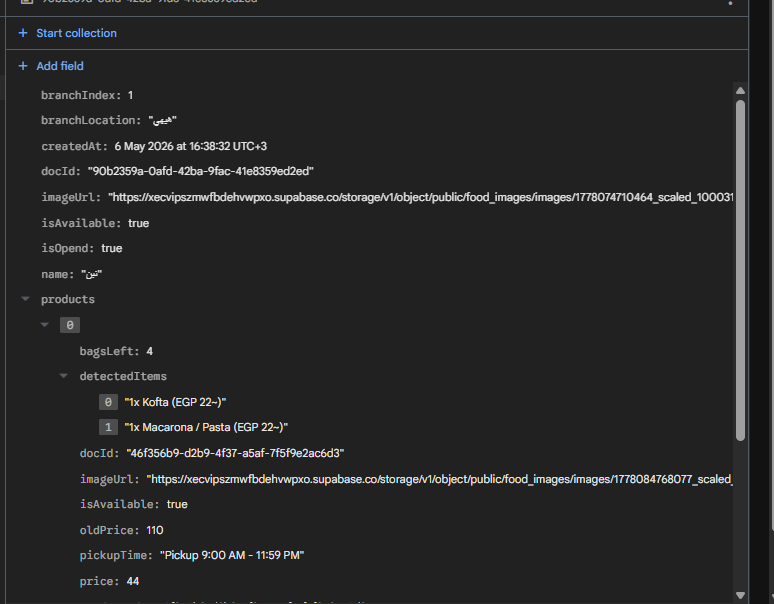
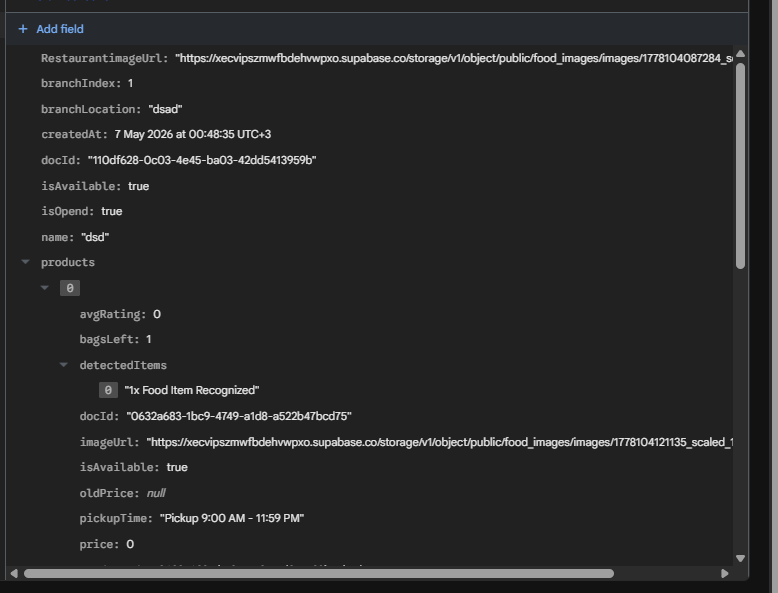
feat: Add restaurantImageUrl to restaurant and product entities, and update related components

Changed region(s): [[0.0, 0.0, 1.0, 1.0]]

diff --git a/lib/core/services/firestore_services.dart b/lib/core/services/firestore_services.dart
@@ -158,9 +158,14 @@ class FirestoreServices implements DatabaseServies {
     Map<String, dynamic>? query,
   }) async {
     String? filterRestaurantId;
+    int? restaurantLimit;
     if (query != null && query['restaurantId'] != null) {
       filterRestaurantId = query['restaurantId'] as String;
       print('🔥 Filtering by restaurantId: $filterRestaurantId');
+    }
+    if (query != null && query['restaurantLimit'] != null) {
+      restaurantLimit = query['restaurantLimit'] as int;
+      print('🔥 Limiting to $restaurantLimit restaurants');
     }
 
     late final QuerySnapshot<Map<String, dynamic>> restaurantsSnapshot;
@@ -170,7 +175,12 @@ class FirestoreServices implements DatabaseServies {
           .where(FieldPath.documentId, isEqualTo: filterRestaurantId)
           .get();
     } else {
-      restaurantsSnapshot = await firestore.collection('resturants').get();
+      var restaurantQuery =
+          firestore.collection('resturants') as Query<Map<String, dynamic>>;
+      if (restaurantLimit != null) {
+        restaurantQuery = restaurantQuery.limit(restaurantLimit);
+      }
+      restaurantsSnapshot = await restaurantQuery.get();
     }
 
     print('🔥 Found ${restaurantsSnapshot.docs.length} restaurants');
@@ -245,8 +255,12 @@ class FirestoreServices implements DatabaseServies {
     Map<String, dynamic>? query,
   }) {
     String? filterRestaurantId;
+    int? restaurantLimit;
     if (query != null && query['restaurantId'] != null) {
       filterRestaurantId = query['restaurantId'] as String;
+    }
+    if (query != null && query['restaurantLimit'] != null) {
+      restaurantLimit = query['restaurantLimit'] as int;
     }
 
     Query<Map<String, dynamic>> restaurantsQuery = firestore.collection(
@@ -257,6 +271,8 @@ class FirestoreServices implements DatabaseServies {
         FieldPath.documentId,
         isEqualTo: filterRestaurantId,
       );
+    } else if (restaurantLimit != null) {
+      restaurantsQuery = restaurantsQuery.limit(restaurantLimit);
     }
 
     return restaurantsQuery.snapshots().map((restaurantsSnapshot) {

diff --git a/lib/core/models/product_model.dart b/lib/core/models/product_model.dart
@@ -18,6 +18,7 @@ class ProductModel {
   final List<String> detectedItems;
   final String? userEmail;
   final String? restaurantId;
+  final String? restaurantImageUrl;
 
   final bool isfeatured;
   final num sellingCount;
@@ -54,6 +55,7 @@ class ProductModel {
     this.pickupTime,
     this.userEmail,
     this.restaurantId,
+    this.restaurantImageUrl,
     this.imageurl,
   });
 
@@ -131,6 +133,9 @@ class ProductModel {
       restaurantId: safeString(json['restaurantId']).isNotEmpty
           ? safeString(json['restaurantId'])
           : null,
+      restaurantImageUrl: safeString(json['restaurantImageUrl']).isNotEmpty
+          ? safeString(json['restaurantImageUrl'])
+          : null,
       isOrganic: safeBool(json['isOrganic']),
       isfeatured: safeBool(json['isfeatured']) || safeBool(json['isFeatured']),
       imageurl: safeString(json['imageurl']).isNotEmpty
@@ -166,6 +171,7 @@ class ProductModel {
       detectedItems: detectedItems,
       userEmail: userEmail,
       restaurantId: restaurantId,
+      restaurantImageUrl: restaurantImageUrl,
       avgRating: avgRating,
       imageUrl: imageurl,
     );

diff --git a/lib/core/widgets/resturant_card.dart b/lib/core/widgets/resturant_card.dart
@@ -23,9 +23,7 @@ class RestaurantCard extends StatelessWidget {
               height: double.infinity,
               decoration: BoxDecoration(
                 image: DecorationImage(
-                  image: restaurant.foodImage.startsWith('http')
-                      ? NetworkImage(restaurant.foodImage)
-                      : AssetImage(restaurant.foodImage),
+                  image: _getImageProvider(restaurant),
                   fit: BoxFit.cover,
                 ),
               ),
@@ -81,5 +79,21 @@ class RestaurantCard extends StatelessWidget {
         ],
       ),
     );
+  }
+
+  ImageProvider _getImageProvider(RestaurantEntity restaurant) {
+    // Prioritize restaurantImageUrl from Firebase
+    if (restaurant.restaurantImageUrl?.isNotEmpty == true) {
+      final url = restaurant.restaurantImageUrl!.trim();
+      if (url.startsWith('http')) {
+        return NetworkImage(url);
+      }
+    }
+
+    // Fall back to foodImage
+    if (restaurant.foodImage.startsWith('http')) {
+      return NetworkImage(restaurant.foodImage);
+    }
+    return AssetImage(restaurant.foodImage);
   }
 }

diff --git a/lib/features/home/presentation/views/home_view.dart b/lib/features/home/presentation/views/home_view.dart
@@ -1,4 +1,8 @@
 import 'package:flutter/material.dart';
+import 'package:flutter_bloc/flutter_bloc.dart';
+import 'package:mysterybag/core/repos/product_repo/product_repo.dart';
+import 'package:mysterybag/core/services/get_it_service.dart';
+import 'package:mysterybag/features/home/presentation/manager/cubits/products/products_cubit.dart';
 import 'package:mysterybag/generated/l10n.dart';
 import 'package:mysterybag/features/home/presentation/views/widgets/home_view_body.dart';
 
@@ -7,9 +11,13 @@ class HomeView extends StatelessWidget {
   static const routeName = '/home';
   @override
   Widget build(BuildContext context) {
-    return Scaffold(
-      appBar: AppBar(title: Text(S.of(context)!.homeViewTitle)),
-      body: const HomeViewBody(),
+    return BlocProvider(
+      create: (_) =>
+          ProductsCubit(getIt<ProductRepo>())..loadProducts(restaurantLimit: 3),
+      child: Scaffold(
+        appBar: AppBar(title: Text(S.of(context)!.homeViewTitle)),
+        body: const HomeViewBody(),
+      ),
     );
   }
 }

diff --git a/lib/features/home/presentation/views/widgets/products_view_body.dart b/lib/features/home/presentation/views/widgets/products_view_body.dart
@@ -86,6 +86,10 @@ class _ProductsViewBodyState extends State<ProductsViewBody> {
             location: S.of(context)!.bagelMysteryBagLocationValue,
             isAvailable: true,
             isOpenNow: true,
+            restaurantImageUrl:
+                product.restaurantImageUrl?.trim().isNotEmpty == true
+                ? product.restaurantImageUrl!.trim()
+                : null,
           ),
         ),
       );
@@ -148,6 +152,7 @@ class _ProductsViewBodyState extends State<ProductsViewBody> {
                                   .bagelMysteryBagLocationValue,
                               isAvailable: true,
                               isOpenNow: true,
+                              restaurantImageUrl: null,
                             ),
                           ),
                           const SizedBox(height: 20),

diff --git a/lib/features/home/presentation/manager/cubits/products/products_cubit.dart b/lib/features/home/presentation/manager/cubits/products/products_cubit.dart
@@ -12,7 +12,11 @@ class ProductsCubit extends Cubit<ProductsState> {
 
   ProductsCubit(this.productRepo) : super(ProductsInitial());
 
-  Future<void> loadProducts({int? limit, String? restaurantId}) async {
+  Future<void> loadProducts({
+    int? limit,
+    String? restaurantId,
+    int? restaurantLimit,
+  }) async {
     await _productsSubscription?.cancel();
     emit(ProductsLoading());
     try {
@@ -31,7 +35,10 @@ class ProductsCubit extends Cubit<ProductsState> {
       }
 
       _productsSubscription = productRepo
-          .watchProducts(restaurantId: restaurantId)
+          .watchProducts(
+            restaurantId: restaurantId,
+            restaurantLimit: restaurantLimit,
+          )
           .listen((result) {
             result.fold((failure) => emit(ProductsFailure(failure)), (
               products,

diff --git a/lib/features/home/presentation/views/widgets/home_view_body.dart b/lib/features/home/presentation/views/widgets/home_view_body.dart
@@ -89,6 +89,10 @@ class _HomeViewBodyState extends State<HomeViewBody> {
             location: S.of(context)!.bagelMysteryBagLocationValue,
             isAvailable: true,
             isOpenNow: true,
+            restaurantImageUrl:
+                product.restaurantImageUrl?.trim().isNotEmpty == true
+                ? product.restaurantImageUrl!.trim()
+                : null,
           ),
         ),
       );
@@ -172,6 +176,7 @@ class _HomeViewBodyState extends State<HomeViewBody> {
                                   .bagelMysteryBagLocationValue,
                               isAvailable: true,
                               isOpenNow: true,
+                              restaurantImageUrl: null,
                             ),
                           ),
                           const SizedBox(height: 12),

diff --git a/lib/features/home/presentation/views/main_view.dart b/lib/features/home/presentation/views/main_view.dart
@@ -1,6 +1,4 @@
 import 'package:flutter/material.dart';
-import 'package:flutter_bloc/flutter_bloc.dart';
-import 'package:mysterybag/features/home/presentation/manager/cubits/products/products_cubit.dart';
 import 'widgets/home_custom_bottom_navigation_bar.dart';
 
 import 'widgets/main_view_body_bloc_listener.dart';
@@ -31,12 +29,6 @@ class _MainViewState extends State<MainView> {
         onItemTapped: (int value) {
           currentViewIndex = value;
           setState(() {});
-          // If user navigated to Home tab, ensure products are refreshed.
-          if (value == 0) {
-            try {
-              context.read<ProductsCubit>().loadProducts();
-            } catch (_) {}
-          }
         },
       ),
       body: MainViewBodyBlocListener(currentViewIndex: currentViewIndex),

diff --git a/lib/features/home/presentation/views/products_view.dart b/lib/features/home/presentation/views/products_view.dart
@@ -1,4 +1,8 @@
 import 'package:flutter/material.dart';
+import 'package:flutter_bloc/flutter_bloc.dart';
+import 'package:mysterybag/core/repos/product_repo/product_repo.dart';
+import 'package:mysterybag/core/services/get_it_service.dart';
+import 'package:mysterybag/features/home/presentation/manager/cubits/products/products_cubit.dart';
 import 'widgets/products_view_body.dart';
 
 class ProductsView extends StatelessWidget {
@@ -6,6 +10,9 @@ class ProductsView extends StatelessWidget {
 
   @override
   Widget build(BuildContext context) {
-    return const ProductsViewBody();
+    return BlocProvider(
+      create: (_) => ProductsCubit(getIt<ProductRepo>())..loadProducts(),
+      child: const ProductsViewBody(),
+    );
   }
 }

diff --git a/lib/core/entities/demo_restaurants.dart b/lib/core/entities/demo_restaurants.dart
@@ -10,6 +10,7 @@ final List<RestaurantEntity> demoRestaurants = [
     distance: '2.7 kilometers',
     isAvailable: true,
     isOpenNow: true,
+    restaurantImageUrl: null,
   ),
   RestaurantEntity(
     name: 'Burger Palace',
@@ -19,6 +20,7 @@ final List<RestaurantEntity> demoRestaurants = [
     distance: '1.5 kilometers',
     isAvailable: true,
     isOpenNow: true,
+    restaurantImageUrl: null,
   ),
   RestaurantEntity(
     name: 'Pizza Corner',
@@ -28,5 +30,6 @@ final List<RestaurantEntity> demoRestaurants = [
     distance: '3.2 kilometers',
     isAvailable: true,
     isOpenNow: false,
+    restaurantImageUrl: null,
   ),
 ];

diff --git a/lib/core/repos/product_repo/product_repo_impl.dart b/lib/core/repos/product_repo/product_repo_impl.dart
@@ -78,11 +78,15 @@ class ProductRepoImpl extends ProductRepo {
   @override
   Stream<Either<Failure, List<ProductEntity>>> watchProducts({
     String? restaurantId,
+    int? restaurantLimit,
   }) async* {
     final query = <String, dynamic>{};
 
     if (restaurantId != null && restaurantId.isNotEmpty) {
       query['restaurantId'] = restaurantId;
+    }
+    if (restaurantLimit != null) {
+      query['restaurantLimit'] = restaurantLimit;
     }
 
     await for (final data in databaseServies.watchData(

diff --git a/lib/core/entities/product_entity.dart b/lib/core/entities/product_entity.dart
@@ -21,6 +21,7 @@ class ProductEntity extends Equatable {
   final List<String> detectedItems;
   final String? userEmail;
   final String? restaurantId;
+  final String? restaurantImageUrl;
 
   final bool isFeatured;
   String? imageUrl;
@@ -53,6 +54,7 @@ class ProductEntity extends Equatable {
     this.detectedItems = const [],
     this.userEmail,
     this.restaurantId,
+    this.restaurantImageUrl,
     this.avgRating = 0,
     this.imageUrl,
   });
